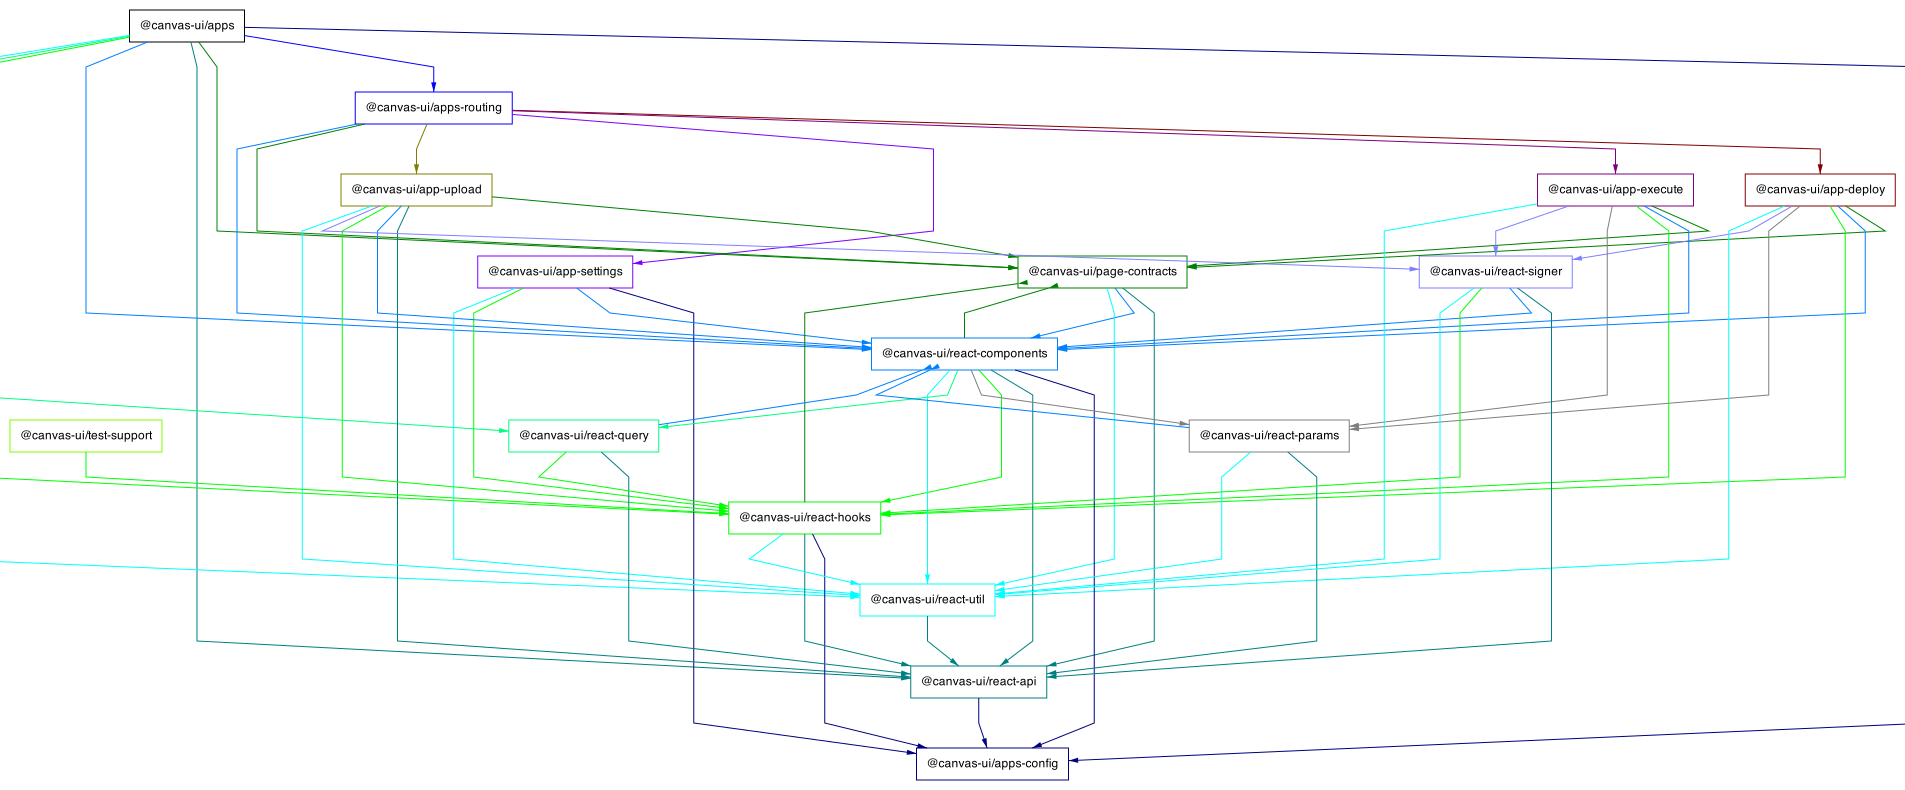
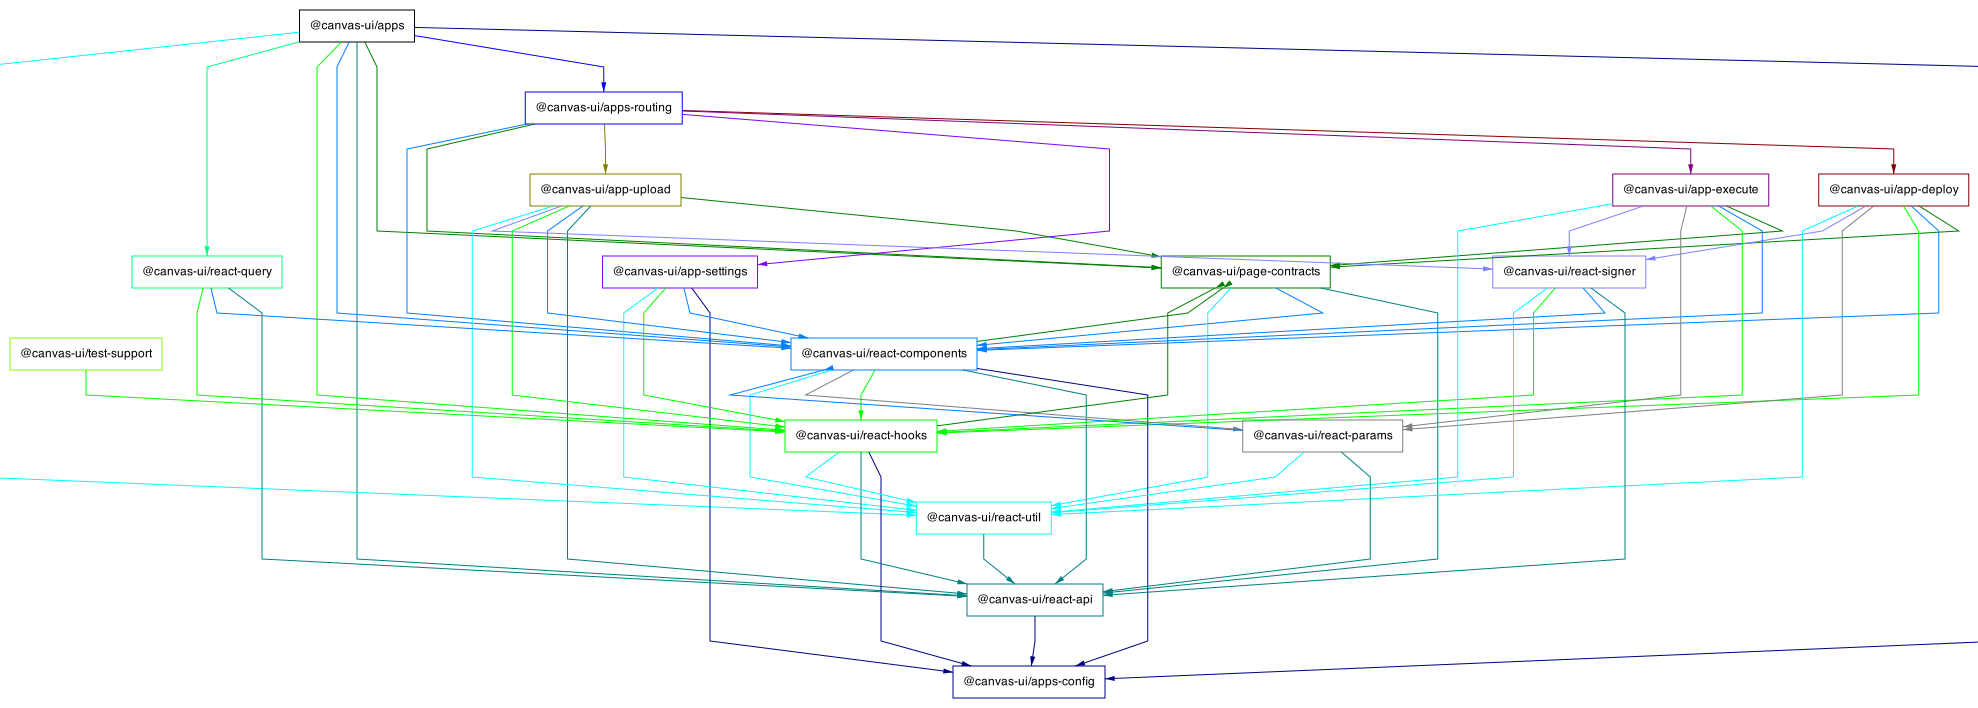
Fixed ref's

diff --git a/packages/react-components/src/types.ts b/packages/react-components/src/types.ts
@@ -17,6 +17,9 @@ import { ButtonProps } from './Button/types';
 import { InputAddressProps } from './InputAddress/types';
 import { TxCallback, TxFailedCallback } from '@canvas-ui/react-api/Status/types';
 
+import { ActionStatus } from '@canvas-ui/react-api/Status/types';
+import { VoidFn } from '@canvas-ui/react-util/types';
+
 export interface BareProps {
   children?: React.ReactNode;
   className?: string;
@@ -149,4 +152,31 @@ export interface ThemeDef {
 
 export interface ThemeProps {
   theme: ThemeDef;
+}
+// New
+
+export interface AppNavigation {
+  deploy: VoidFn;
+  deployNew: (_: string, __?: number) => VoidFn;
+  deploySuccess: (_: string) => VoidFn;
+  execute: VoidFn;
+  executeAdd: VoidFn;
+  executeCall: (_: string, __?: number) => VoidFn;
+  upload: VoidFn;
+  uploadAdd: VoidFn;
+  uploadSuccess: (_: string) => VoidFn;
+}
+
+interface WithAppNavigation {
+  navigateTo: AppNavigation;
+}
+
+export interface WithBasePath {
+  basePath: string;
+}
+
+export interface ComponentProps extends BareProps, WithBasePath, WithAppNavigation {}
+
+export interface AppProps extends BareProps, WithBasePath, WithAppNavigation {
+  onStatusChange: (status: ActionStatus) => void;
 }

diff --git a/packages/page-contracts/src/types.ts b/packages/page-contracts/src/types.ts
@@ -3,37 +3,9 @@
 
 // Moved from @canvas-ui/apps -> page-contracts
 
-import { ActionStatus } from '@canvas-ui/react-api/Status/types';
-import { BareProps } from '@canvas-ui/react-components/types';
-import { VoidFn } from '@canvas-ui/react-util/types';
-
 import { AnyJson } from '@polkadot/types/types';
 
-export interface AppNavigation {
-  deploy: VoidFn;
-  deployNew: (_: string, __?: number) => VoidFn;
-  deploySuccess: (_: string) => VoidFn;
-  execute: VoidFn;
-  executeAdd: VoidFn;
-  executeCall: (_: string, __?: number) => VoidFn;
-  upload: VoidFn;
-  uploadAdd: VoidFn;
-  uploadSuccess: (_: string) => VoidFn;
-}
 
-interface WithAppNavigation {
-  navigateTo: AppNavigation;
-}
-
-export interface WithBasePath {
-  basePath: string;
-}
-
-export interface ComponentProps extends BareProps, WithBasePath, WithAppNavigation {}
-
-export interface AppProps extends BareProps, WithBasePath, WithAppNavigation {
-  onStatusChange: (status: ActionStatus) => void;
-}
 
 interface CodeBase {
   id: string;

diff --git a/packages/page-execute/src/index.tsx b/packages/page-execute/src/index.tsx
@@ -1,7 +1,7 @@
 // Copyright 2017-2021 @canvas-ui/app-execute authors & contributors
 // SPDX-License-Identifier: Apache-2.0
 
-import { AppProps as Props } from '@canvas-ui/page-contracts/types';
+import { AppProps as Props } from '@canvas-ui/react-components/types';
 import { WithLoader } from '@canvas-ui/react-components';
 import { useAccounts, useContracts } from '@canvas-ui/react-hooks';
 import { classes } from '@canvas-ui/react-util';

diff --git a/packages/page-deploy/src/index.tsx b/packages/page-deploy/src/index.tsx
@@ -1,7 +1,7 @@
 // Copyright 2017-2021 @canvas-ui/app-execute authors & contributors
 // SPDX-License-Identifier: Apache-2.0
 
-import { AppProps as Props } from '@canvas-ui/page-contracts/types';
+import { AppProps as Props } from '@canvas-ui/react-components/types';
 import useCodes from '@canvas-ui/page-contracts/useCodes';
 import { WithLoader } from '@canvas-ui/react-components';
 import React, { useMemo } from 'react';

diff --git a/packages/page-upload/src/index.tsx b/packages/page-upload/src/index.tsx
@@ -1,7 +1,7 @@
 // Copyright 2017-2021 @canvas-ui/app-execute authors & contributors
 // SPDX-License-Identifier: Apache-2.0
 
-import { AppProps as Props } from '@canvas-ui/page-contracts/types';
+import { AppProps as Props } from '@canvas-ui/react-components/types';
 import useCodes from '@canvas-ui/page-contracts/useCodes';
 import React, { useMemo } from 'react';
 import { Route, Switch } from 'react-router';

diff --git a/packages/apps-routing/src/types.ts b/packages/apps-routing/src/types.ts
@@ -1,8 +1,7 @@
 // Copyright 2017-2021 @canvas-ui/apps-routing authors & contributors
 // SPDX-License-Identifier: Apache-2.0
 
-import { AppProps } from '@canvas-ui/page-contracts/types';
-import { BareProps } from '@canvas-ui/react-components/types';
+import { AppProps, BareProps } from '@canvas-ui/react-components/types';
 
 export interface RouteProps extends AppProps, BareProps {
   location: any;

diff --git a/packages/apps/src/useAppNavigation.ts b/packages/apps/src/useAppNavigation.ts
@@ -4,7 +4,7 @@
 import { useCallback } from 'react';
 import { useHistory } from 'react-router-dom';
 
-import { AppNavigation } from '@canvas-ui/page-contracts/types';
+import { AppNavigation } from '@canvas-ui/react-components/types';
 
 export default function useAppNavigation (): AppNavigation {
   const history = useHistory();
